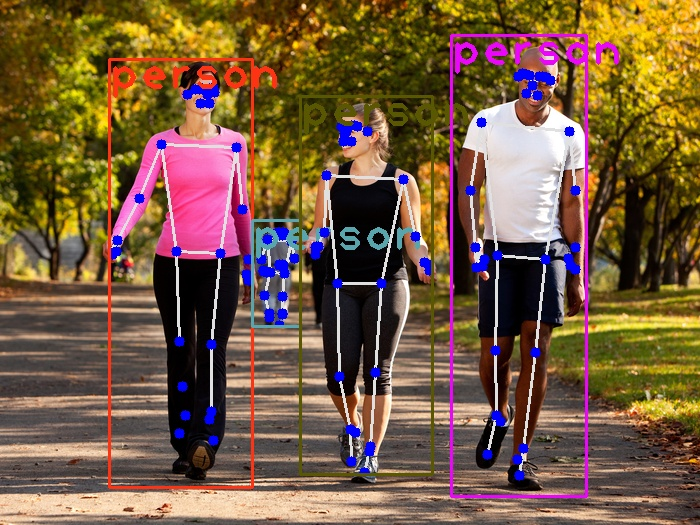
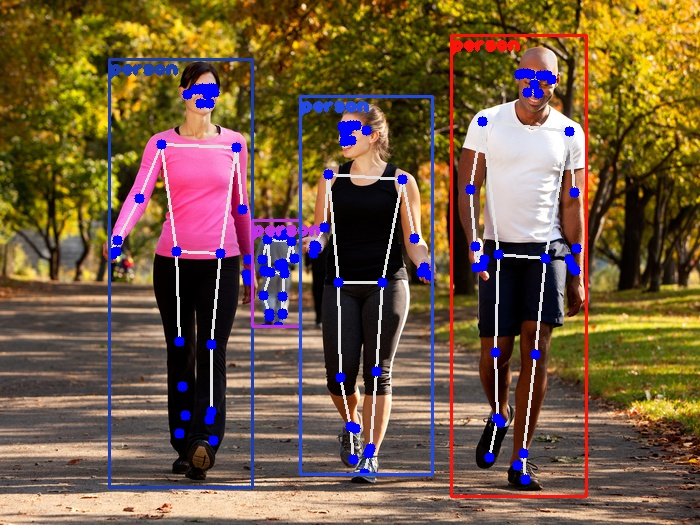
update label

diff --git a/multi-person-pose-estimation.py b/multi-person-pose-estimation.py
@@ -25,74 +25,72 @@ mpDraw = mp.solutions.drawing_utils
 pTime = 0
 
 # Loading web cam
-camera = cv2.VideoCapture(0)
+#camera = cv2.VideoCapture(0)
 # Loading picture
-#img = cv2.imread("test_image.jpg")
+img = cv2.imread("test_image.jpg")
 
-while True:
-    success, img = camera.read()
-    height, width, channels = img.shape
+#while True:
+#success, img = camera.read()
+height, width, channels = img.shape
 
-    # Yolo to detect objects
-    blob = cv2.dnn.blobFromImage(img, 1.0/255, (320, 320), (0, 0, 0), True, crop=False)
-    net.setInput(blob)
-    outs = net.forward(output_layers)
+# Yolo to detect objects
+blob = cv2.dnn.blobFromImage(img, 1.0/255, (320, 320), (0, 0, 0), True, crop=False)
+net.setInput(blob)
+outs = net.forward(output_layers)
 
-    # Showing informations on the screen
-    class_ids = []
-    confidences = []
-    boxes = []
-    for out in outs:
-        for detection in out:
-            scores = detection[5:]
-            class_id = np.argmax(scores)
-            if class_id == 0 or class_id == 32:
-                confidence = scores[class_id]
-                if confidence > 0.5:
-                    # Object detected
-                    center_x = int(detection[0] * width)
-                    center_y = int(detection[1] * height)
-                    w = int(detection[2] * width)
-                    h = int(detection[3] * height)
-                    # Rectangle coordinates
-                    x = int(center_x - w / 2)
-                    y = int(center_y - h / 2)
-                    boxes.append([x, y, w, h])
-                    confidences.append(float(confidence))
-                    class_ids.append(class_id)      
+# Showing informations on the screen
+class_ids = []
+confidences = []
+boxes = []
+for out in outs:
+    for detection in out:
+        scores = detection[5:]
+        class_id = np.argmax(scores)
+        if class_id == 0 or class_id == 32:
+            confidence = scores[class_id]
+            if confidence > 0.5:
+                # Object detected
+                center_x = int(detection[0] * width)
+                center_y = int(detection[1] * height)
+                w = int(detection[2] * width)
+                h = int(detection[3] * height)
+                # Rectangle coordinates
+                x = int(center_x - w / 2)
+                y = int(center_y - h / 2)
+                boxes.append([x, y, w, h])
+                confidences.append(float(confidence))
+                class_ids.append(class_id)      
 
-    indexes = cv2.dnn.NMSBoxes(boxes, confidences, 0.5, 0.4)
+indexes = cv2.dnn.NMSBoxes(boxes, confidences, 0.5, 0.4)
 
-    font = cv2.FONT_HERSHEY_PLAIN
-    for i in range(len(boxes)):
-        if i in indexes:
-            x, y, w, h = boxes[i]
-            print(x, y, w, h)
-            # Run MediaPipe pose estimator for each person detected
-            if class_ids[i] == 0:
-                crop_img = img[abs(y):abs(y)+h, abs(x):abs(x)+w]
-                imgRGB = cv2.cvtColor(crop_img, cv2.COLOR_BGR2RGB)
-                results = pose.process(crop_img)
-                #print("Results: ", results.pose_landmarks)
-                if results.pose_landmarks:
-                    mpDraw.draw_landmarks(crop_img, results.pose_landmarks, mpPose.POSE_CONNECTIONS)
-                    for id, lm in enumerate(results.pose_landmarks.landmark):
-                        h, w,c = crop_img.shape
-                        print(id, lm)
-                        cx, cy = int(lm.x*w), int(lm.y*h)
-                        cv2.circle(crop_img, (cx, cy), 5, (255,0,0), cv2.FILLED)
-            #Box and label
-            label = str(classes[class_ids[i]])
-            color = colors[i]
-            cv2.rectangle(img, (x, y), (x + w, y + h), color, 2)
-            cv2.putText(img, label, (x, y + 30), font, 3, color, 3)
+font = cv2.FONT_HERSHEY_PLAIN
+for i in range(len(boxes)):
+    if i in indexes:
+        x, y, w, h = boxes[i]
+        print(x, y, w, h)
+        # Run MediaPipe pose estimator for each person detected
+        if class_ids[i] == 0:
+            crop_img = img[abs(y):abs(y)+h, abs(x):abs(x)+w]
+            imgRGB = cv2.cvtColor(crop_img, cv2.COLOR_BGR2RGB)
+            results = pose.process(crop_img)
+            #print("Results: ", results.pose_landmarks)
+            if results.pose_landmarks:
+                mpDraw.draw_landmarks(crop_img, results.pose_landmarks, mpPose.POSE_CONNECTIONS)
+                for id, lm in enumerate(results.pose_landmarks.landmark):
+                    h, w,c = crop_img.shape
+                    print(id, lm)
+                    cx, cy = int(lm.x*w), int(lm.y*h)
+                    cv2.circle(crop_img, (cx, cy), 5, (255,0,0), cv2.FILLED)
+        #Box and label
+        label = str(classes[class_ids[i]])
+        color = colors[i]
+        cv2.rectangle(img, (x, y), (x + w, y + h), color, 2)
+        cv2.putText(img, label, (x, y + 15), font, 1.2, color, 3)
 
-    cv2.imshow("Image", img)
-    key = cv2.waitKey(1)
-    if key == 27:
-        break
+cv2.imshow("Image", img)
+cv2.waitKey(1)
 
-#cv2.imwrite("result2.jpg", img)
+cv2.imwrite("result2.jpg", img)
 
-camera.release()
+#camera.release()
 cv2.destroyAllWindows()
